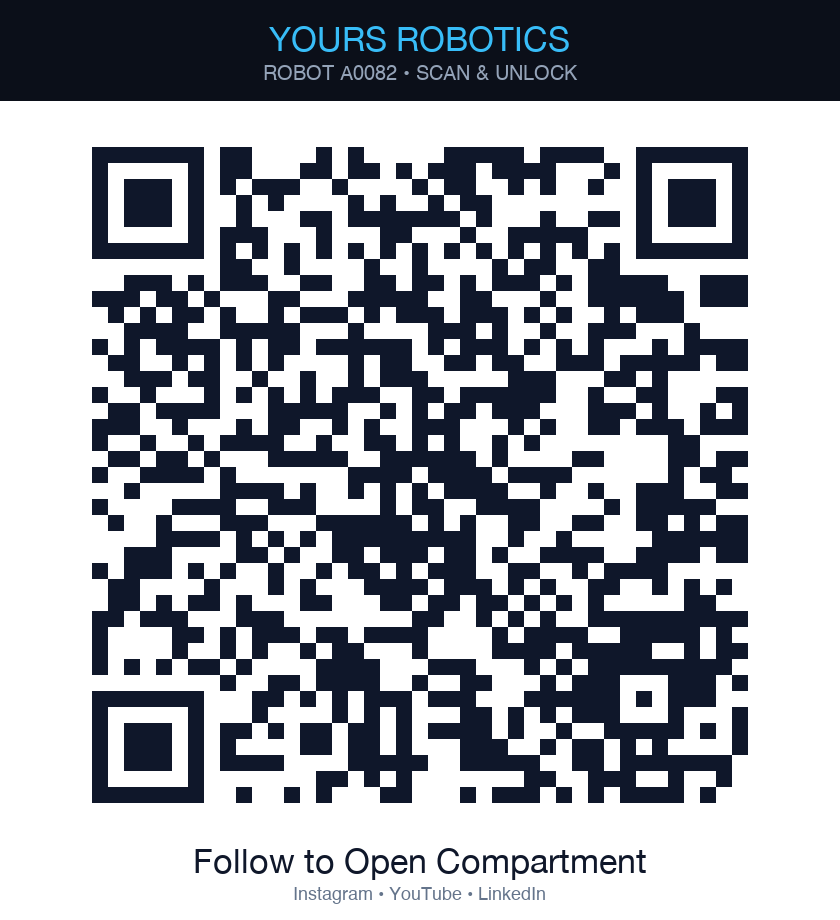
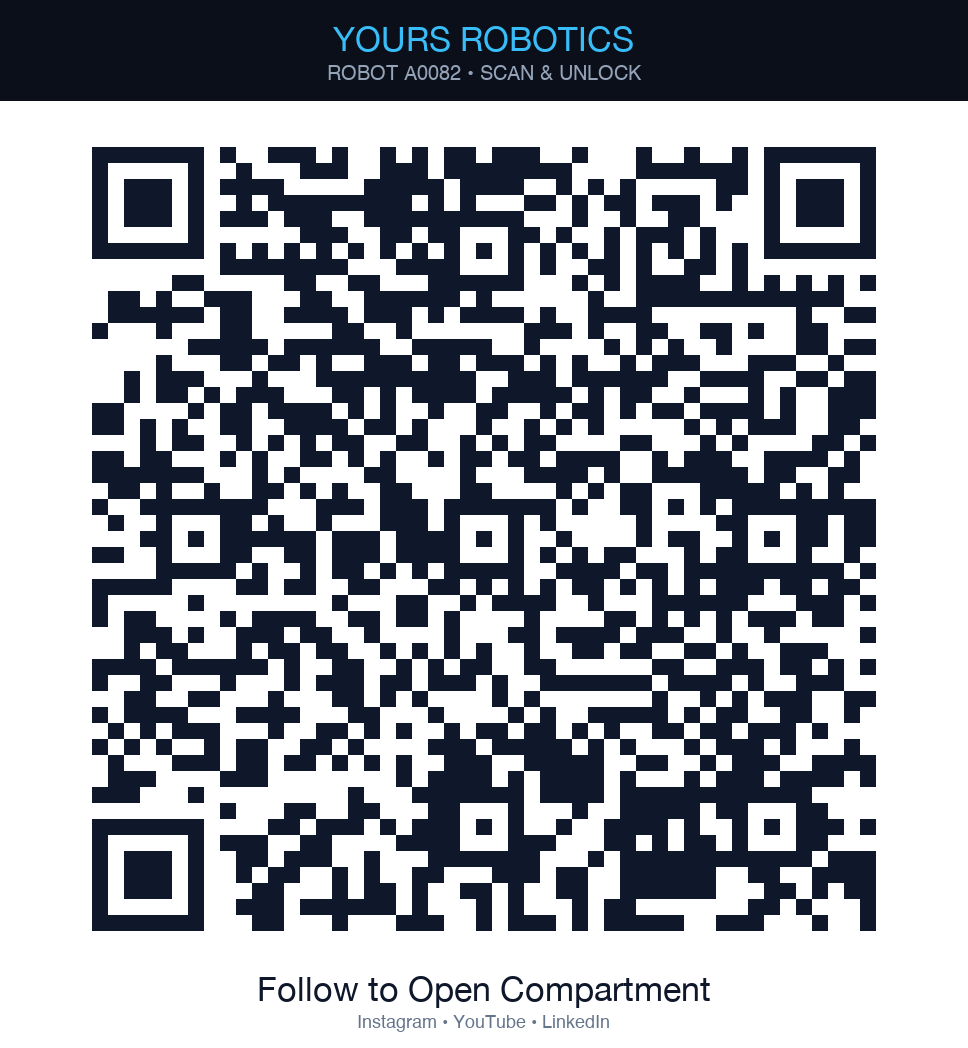
Add QR-scan authentication, single-use unlock, and anti-abuse safeguards

diff --git a/index.html b/index.html
@@ -604,57 +604,161 @@
     // Configuration
     const ROBOT_ID = '4c5f6921115ae44a0f5c64cc952deba3'; // Robot 82
     const UNLOCK_API = 'https://jp.yours.xyz/index.php/api/v1/merchant/robot/openGrid';
+    const VALID_TOKEN = 'yours82_open_lid';
+
+    // 1. Read query parameters before history cleanup
+    const params = new URLSearchParams(location.search);
+    const incomingToken = params.get('token');
+
+    // 2. Immediately strip token from address bar and browser history
+    // This ensures bookmarks, history entries, and shared URLs do not retain unlock capability
+    if (location.search) {
+      const cleanUrl = location.origin + location.pathname;
+      window.history.replaceState({}, document.title, cleanUrl);
+    }
+
+    // 3. Navigation and session checks (matching open_lid.html security design)
+    const navEntries = performance.getEntriesByType("navigation");
+    const isReload = navEntries.length ? navEntries[0].type === "reload" : false;
+    let isAlreadyUnlocked = sessionStorage.getItem('yours82_unlocked') === 'true';
+
+    // 4. Authorization state
+    let canUnlock = false;
+    if (incomingToken === VALID_TOKEN && !isReload && !isAlreadyUnlocked) {
+      canUnlock = true;
+    } else {
+      canUnlock = false;
+    }
 
     // Translations
     const i18n = {
       en: {
-        status: 'Robot 82 Connected & Ready',
-        tagline: 'Follow or subscribe to any of our channels below to <strong>automatically unlock Robot 82\'s compartment lid</strong>!',
-        igDesc: 'Highlights, robotics demos & behind-the-scenes',
-        igBadge: 'Follow & Open Lid',
-        ytDesc: 'Autonomous wayfinding & AI robotics videos',
-        ytBadge: 'Subscribe & Open Lid',
-        liDesc: 'Corporate updates, partnership & careers',
-        liBadge: 'Follow & Open Lid',
-        quickUnlock: 'Already following? Open Robot Lid Now',
+        statusReady: 'Robot 82 Ready to Unlock',
+        statusLocked: 'Robot 82 • Scan QR on Robot to Unlock',
+        statusOpened: 'Robot 82 • Compartment Unlocked',
+        taglineReady: 'Follow or subscribe to any channel below to <strong>automatically unlock Robot 82\'s compartment lid</strong>!',
+        taglineLocked: 'Follow our official channels below. <em>(To unlock Robot 82\'s lid, please scan the QR code on the robot)</em>',
+        taglineOpened: 'Thank you for your support! Robot 82\'s compartment lid has been unlocked.',
+        igBadgeReady: 'Follow & Open Lid',
+        igBadgeNormal: 'Follow',
+        ytBadgeReady: 'Subscribe & Open Lid',
+        ytBadgeNormal: 'Subscribe',
+        liBadgeReady: 'Follow & Open Lid',
+        liBadgeNormal: 'Follow',
+        quickUnlockReady: 'Already following? Open Robot Lid Now',
+        quickUnlockLocked: '🔒 Scan Robot QR to Unlock Lid',
+        quickUnlockOpened: '✅ Lid Already Unlocked',
         modalTitle: 'Compartment Unlocked!',
         modalBody: 'Robot 82\'s lid is opening now. Thank you for your support!',
         modalRedirect: 'Opening {platform} in a moment...',
-        stayText: 'Stay on this page'
+        stayText: 'Stay on this page',
+        noticeScanRequiredTitle: 'QR Scan on Robot Required',
+        noticeScanRequiredBody: 'To open Robot 82\'s compartment lid, please scan the official QR code located directly on Robot 82 using your camera.<br><br>Direct remote access is restricted for security.',
+        noticeAlreadyUnlockedTitle: 'Already Unlocked',
+        noticeAlreadyUnlockedBody: 'The lid was already unlocked during this scan session. To open it again, please scan the QR code on the robot once more.'
       },
       zh: {
-        status: '82号小车 已连接就绪',
-        tagline: '关注或订阅下方任意一个官方平台，<strong>82号小车顶盖将自动开启</strong>！',
-        igDesc: '精彩动态、机器人展示与技术花絮',
-        igBadge: '关注并开盖',
-        ytDesc: '自主寻路、AI交互与前沿科技视频',
-        ytBadge: '订阅并开盖',
-        liDesc: '企业发展、商务合作与招聘动态',
-        liBadge: '关注并开盖',
-        quickUnlock: '已关注？直接一键开启小车顶盖',
+        statusReady: '82号小车 已就绪（扫码已授权）',
+        statusLocked: '82号小车 • 请扫描小车二维码开盖',
+        statusOpened: '82号小车 • 顶盖已开启',
+        taglineReady: '关注或订阅下方任意一个官方平台，<strong>82号小车顶盖将自动开启</strong>！',
+        taglineLocked: '欢迎关注我们的官方媒体平台。<em>（如需开盖，请使用手机扫描小车身上的专属二维码）</em>',
+        taglineOpened: '感谢您的关注与支持！82号小车顶盖已成功开启。',
+        igBadgeReady: '关注并开盖',
+        igBadgeNormal: '关注主页',
+        ytBadgeReady: '订阅并开盖',
+        ytBadgeNormal: '订阅频道',
+        liBadgeReady: '关注并开盖',
+        liBadgeNormal: '关注主页',
+        quickUnlockReady: '已关注？直接一键开启小车顶盖',
+        quickUnlockLocked: '🔒 请扫描小车二维码以开启顶盖',
+        quickUnlockOpened: '✅ 顶盖已开启',
         modalTitle: '🎉 顶盖开启指令已送达！',
         modalBody: '82号小车顶盖正在打开，感谢您的关注与支持！',
         modalRedirect: '正在为您跳转至 {platform}...',
-        stayText: '留在本页'
+        stayText: '留在本页',
+        noticeScanRequiredTitle: '需扫描小车专属二维码',
+        noticeScanRequiredBody: '若要开启82号小车的储物顶盖，请使用手机直接扫描82号小车机身上的专属二维码。<br><br>为防止远程误操作，直接网页访问不开放开盖权限。',
+        noticeAlreadyUnlockedTitle: '本次扫码已开盖',
+        noticeAlreadyUnlockedBody: '您在本次扫码中已成功开盖。如需再次开启，请重新扫描小车身上的专属二维码。'
       },
       ja: {
-        status: 'ロボット82号 接続完了・待機中',
-        tagline: '下記の公式SNSをフォロー／チャンネル登録すると、<strong>ロボット82号のフタが自動で開きます</strong>！',
-        igDesc: 'ロボットのデモ動画やハイライト',
-        igBadge: 'フォローして開ける',
-        ytDesc: '自律走行・AIロボティクスの最新映像',
-        ytBadge: '登録して開ける',
-        liDesc: '企業最新情報・採用・ビジネス協業',
-        liBadge: 'フォローして開ける',
-        quickUnlock: 'フォロー済みの方はこちら：直接フタを開ける',
+        statusReady: 'ロボット82号 認証済み・開蓋可能',
+        statusLocked: 'ロボット82号 • 車体のQRスキャンで開蓋',
+        statusOpened: 'ロボット82号 • フタを開放しました',
+        taglineReady: '下記の公式SNSをフォロー／登録すると、<strong>ロボット82号のフタが自動で開きます</strong>！',
+        taglineLocked: '下記の公式メディアをチェック。<em>（フタを開けるには、ロボット本体のQRコードをスキャンしてください）</em>',
+        taglineOpened: 'フォローありがとうございます！ロボット82号のフタを開放しました。',
+        igBadgeReady: 'フォローして開ける',
+        igBadgeNormal: 'フォロー',
+        ytBadgeReady: '登録して開ける',
+        ytBadgeNormal: 'チャンネル登録',
+        liBadgeReady: 'フォローして開ける',
+        liBadgeNormal: 'フォロー',
+        quickUnlockReady: 'フォロー済みの方：直接フタを開ける',
+        quickUnlockLocked: '🔒 車体のQRコードをスキャンして開蓋',
+        quickUnlockOpened: '✅ フタはすでに開いています',
         modalTitle: '🎉 ロボットのフタが開きました！',
         modalBody: 'ロボット82号のフタを開放しました。フォローありがとうございます！',
         modalRedirect: '{platform} を開いています...',
-        stayText: 'このページにとどまる'
+        stayText: 'このページにとどまる',
+        noticeScanRequiredTitle: 'QRコードのスキャンが必要です',
+        noticeScanRequiredBody: 'フタを開けるには、ロボット82号の車体に掲示されているQRコードをスマートフォンでスキャンしてください。<br><br>遠隔からの誤操作防止のため、直接のURLアクセスでは開蓋できません。',
+        noticeAlreadyUnlockedTitle: '開蓋済みです',
+        noticeAlreadyUnlockedBody: 'このスキャンではすでにフタを開放しています。もう一度開ける場合は車体のQRコードを再スキャンしてください。'
       }
     };
 
     let currentLang = 'en';
+
+    function updateUnlockUI() {
+      const t = i18n[currentLang];
+      const statusText = document.getElementById('status-text');
+      const statusDot = document.querySelector('.status-dot');
+      const statusBadge = document.querySelector('.status-badge');
+      const taglineText = document.getElementById('tagline-text');
+      const igBadge = document.getElementById('ig-badge');
+      const ytBadge = document.getElementById('yt-badge');
+      const liBadge = document.getElementById('li-badge');
+      const quickUnlockText = document.getElementById('quick-unlock-text');
+      const quickBtn = document.querySelector('.manual-trigger-btn');
+
+      if (isAlreadyUnlocked) {
+        statusText.textContent = t.statusOpened;
+        taglineText.innerHTML = t.taglineOpened;
+        igBadge.textContent = t.igBadgeNormal;
+        ytBadge.textContent = t.ytBadgeNormal;
+        liBadge.textContent = t.liBadgeNormal;
+        quickUnlockText.textContent = t.quickUnlockOpened;
+        statusBadge.style.borderColor = 'rgba(16, 185, 129, 0.4)';
+        statusBadge.style.color = '#34d399';
+        statusDot.style.background = '#10b981';
+        if (quickBtn) quickBtn.style.opacity = '0.7';
+      } else if (canUnlock) {
+        statusText.textContent = t.statusReady;
+        taglineText.innerHTML = t.taglineReady;
+        igBadge.textContent = t.igBadgeReady;
+        ytBadge.textContent = t.ytBadgeReady;
+        liBadge.textContent = t.liBadgeReady;
+        quickUnlockText.textContent = t.quickUnlockReady;
+        statusBadge.style.borderColor = 'rgba(56, 189, 248, 0.4)';
+        statusBadge.style.color = '#38bdf8';
+        statusDot.style.background = '#38bdf8';
+        if (quickBtn) quickBtn.style.opacity = '1';
+      } else {
+        // Locked / Direct web access
+        statusText.textContent = t.statusLocked;
+        taglineText.innerHTML = t.taglineLocked;
+        igBadge.textContent = t.igBadgeNormal;
+        ytBadge.textContent = t.ytBadgeNormal;
+        liBadge.textContent = t.liBadgeNormal;
+        quickUnlockText.textContent = t.quickUnlockLocked;
+        statusBadge.style.borderColor = 'rgba(148, 163, 184, 0.3)';
+        statusBadge.style.color = '#94a3b8';
+        statusDot.style.background = '#64748b';
+        if (quickBtn) quickBtn.style.opacity = '0.75';
+      }
+    }
 
     function setLang(lang) {
       currentLang = lang;
@@ -662,16 +766,11 @@
         btn.classList.toggle('active', btn.textContent.toLowerCase() === (lang === 'en' ? 'en' : lang === 'zh' ? '中文' : '日本語'));
       });
       const t = i18n[lang];
-      document.getElementById('status-text').textContent = t.status;
-      document.getElementById('tagline-text').innerHTML = t.tagline;
       document.getElementById('ig-desc').textContent = t.igDesc;
-      document.getElementById('ig-badge').textContent = t.igBadge;
       document.getElementById('yt-desc').textContent = t.ytDesc;
-      document.getElementById('yt-badge').textContent = t.ytBadge;
       document.getElementById('li-desc').textContent = t.liDesc;
-      document.getElementById('li-badge').textContent = t.liBadge;
-      document.getElementById('quick-unlock-text').textContent = t.quickUnlock;
       document.getElementById('modal-close-text').textContent = t.stayText;
+      updateUnlockUI();
     }
 
     // Web Audio Synthesized Sci-Fi Chime
@@ -683,7 +782,6 @@
         if (ctx.state === 'suspended') ctx.resume();
 
         const now = ctx.currentTime;
-        // Two-tone rising futuristic chime
         const freqs = [523.25, 659.25, 783.99, 1046.50]; // C5, E5, G5, C6
         freqs.forEach((freq, idx) => {
           const osc = ctx.createOscillator();
@@ -736,56 +834,103 @@
     function handleMediaFollow(event, targetUrl, platformName) {
       event.preventDefault();
 
-      // 1. Fire unlock API immediately
-      sendUnlockCommand();
+      if (canUnlock) {
+        // Legitimate QR scan interaction -> perform single-use unlock!
+        canUnlock = false;
+        isAlreadyUnlocked = true;
+        sessionStorage.setItem('yours82_unlocked', 'true');
+        updateUnlockUI();
 
-      // 2. Audio & Haptic feedback
-      playSciFiChime();
-      if (navigator.vibrate) navigator.vibrate([40, 60, 100]);
+        // 1. Fire unlock API immediately
+        sendUnlockCommand();
 
-      // 3. Show feedback modal
-      const t = i18n[currentLang];
-      document.getElementById('modal-title').textContent = t.modalTitle;
-      document.getElementById('modal-body').innerHTML = t.modalBody + '<br>' + t.modalRedirect.replace('{platform}', '<strong>' + platformName + '</strong>');
-      
-      const modal = document.getElementById('modal');
-      const bar = document.getElementById('redirect-bar');
-      bar.style.transition = 'none';
-      bar.style.transform = 'scaleX(0)';
-      modal.classList.add('active');
+        // 2. Audio & Haptic feedback
+        playSciFiChime();
+        if (navigator.vibrate) navigator.vibrate([40, 60, 100]);
 
-      setTimeout(() => {
-        bar.style.transition = 'transform 1.1s linear';
-        bar.style.transform = 'scaleX(1)';
-      }, 50);
+        // 3. Show feedback modal
+        const t = i18n[currentLang];
+        document.getElementById('modal-title').textContent = t.modalTitle;
+        document.getElementById('modal-body').innerHTML = t.modalBody + '<br>' + t.modalRedirect.replace('{platform}', '<strong>' + platformName + '</strong>');
+        
+        const modal = document.getElementById('modal');
+        const bar = document.getElementById('redirect-bar');
+        bar.style.transition = 'none';
+        bar.style.transform = 'scaleX(0)';
+        modal.classList.add('active');
 
-      // 4. Redirect after brief viewing window
-      redirectTimer = setTimeout(() => {
+        setTimeout(() => {
+          bar.style.transition = 'transform 1.1s linear';
+          bar.style.transform = 'scaleX(1)';
+        }, 50);
+
+        // 4. Redirect after brief viewing window
+        redirectTimer = setTimeout(() => {
+          window.location.href = targetUrl;
+        }, 1200);
+      } else {
+        // Direct website visit without valid QR scan or already unlocked:
+        // Do NOT call unlock API! Open social link directly.
         window.location.href = targetUrl;
-      }, 1200);
+      }
     }
 
-    // Direct trigger
+    // Direct / Manual trigger
     function triggerLidUnlock(source) {
-      sendUnlockCommand();
-      playSciFiChime();
-      if (navigator.vibrate) navigator.vibrate([40, 60, 100]);
-
       const t = i18n[currentLang];
-      document.getElementById('modal-title').textContent = t.modalTitle;
-      document.getElementById('modal-body').innerHTML = t.modalBody;
-      
       const modal = document.getElementById('modal');
       const bar = document.getElementById('redirect-bar');
-      bar.style.transition = 'none';
-      bar.style.transform = 'scaleX(1)';
-      modal.classList.add('active');
+
+      if (canUnlock) {
+        canUnlock = false;
+        isAlreadyUnlocked = true;
+        sessionStorage.setItem('yours82_unlocked', 'true');
+        updateUnlockUI();
+
+        sendUnlockCommand();
+        playSciFiChime();
+        if (navigator.vibrate) navigator.vibrate([40, 60, 100]);
+
+        document.getElementById('modal-title').textContent = t.modalTitle;
+        document.getElementById('modal-body').innerHTML = t.modalBody;
+        bar.style.transition = 'none';
+        bar.style.transform = 'scaleX(1)';
+        modal.classList.add('active');
+      } else if (isAlreadyUnlocked) {
+        // Show notice that session is already used
+        document.getElementById('modal-title').textContent = t.noticeAlreadyUnlockedTitle;
+        document.getElementById('modal-body').innerHTML = t.noticeAlreadyUnlockedBody;
+        bar.style.transition = 'none';
+        bar.style.transform = 'scaleX(0)';
+        modal.classList.add('active');
+      } else {
+        // Show notice that QR scan on robot is required
+        document.getElementById('modal-title').textContent = t.noticeScanRequiredTitle;
+        document.getElementById('modal-body').innerHTML = t.noticeScanRequiredBody;
+        bar.style.transition = 'none';
+        bar.style.transform = 'scaleX(0)';
+        modal.classList.add('active');
+      }
     }
 
     function closeModal() {
       if (redirectTimer) clearTimeout(redirectTimer);
       document.getElementById('modal').classList.remove('active');
     }
+
+    // Visibility change listener (matches open_lid.html security protection)
+    // If the user minimizes the browser, turns off screen, or switches apps, invalidate the unlock session
+    document.addEventListener("visibilitychange", () => {
+      if (document.hidden && canUnlock) {
+        canUnlock = false;
+        isAlreadyUnlocked = true;
+        sessionStorage.setItem('yours82_unlocked', 'true');
+        updateUnlockUI();
+      }
+    });
+
+    // Initial UI state setup
+    updateUnlockUI();
   </script>
 </body>
 </html>

diff --git a/generate_qr.py b/generate_qr.py
@@ -12,7 +12,7 @@ import os
 import qrcode
 from PIL import Image, ImageDraw, ImageFont
 
-DEFAULT_URL = "https://stafford-yours.github.io/Yours-Robotics-Link-Tree/"
+DEFAULT_URL = "https://stafford-yours.github.io/Yours-Robotics-Link-Tree/?token=yours82_open_lid"
 DEFAULT_OUTPUT = os.path.join(os.path.dirname(__file__), "robot82_qr_code.png")
 
 def generate_qr(url=DEFAULT_URL, output_path=DEFAULT_OUTPUT):
